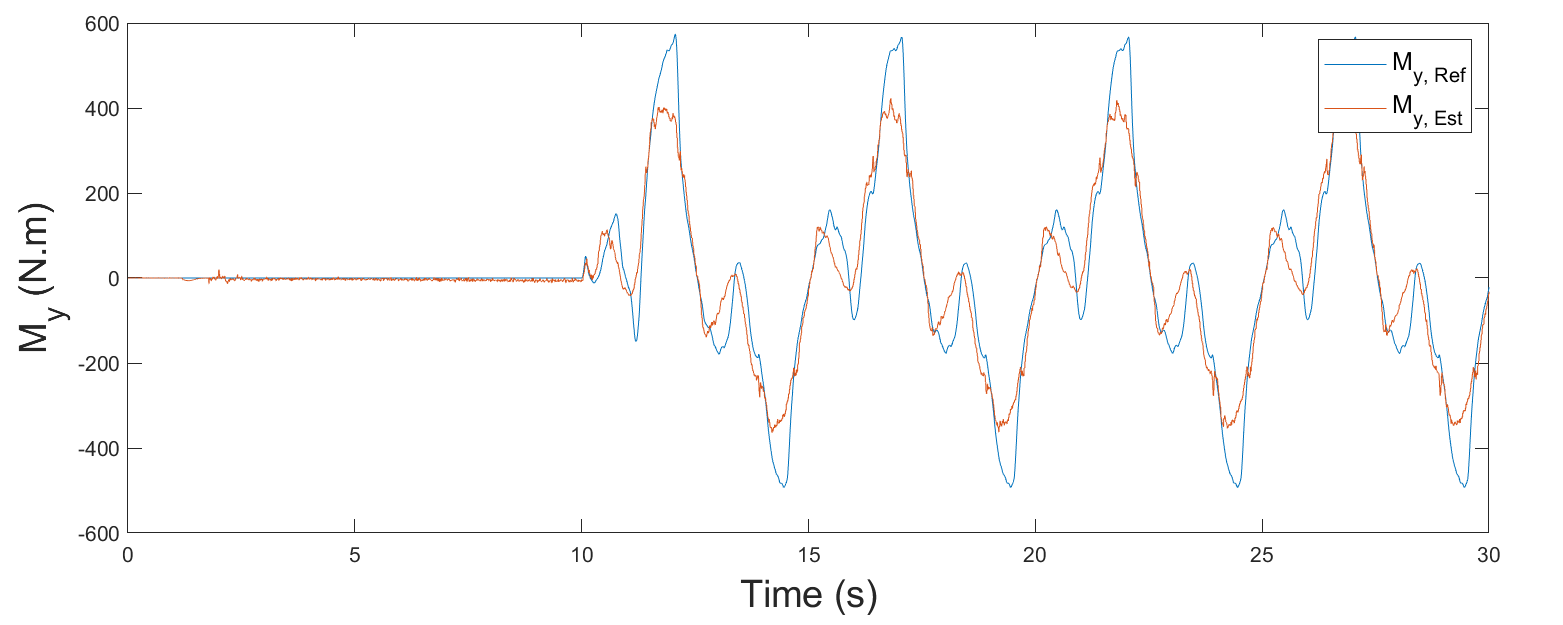
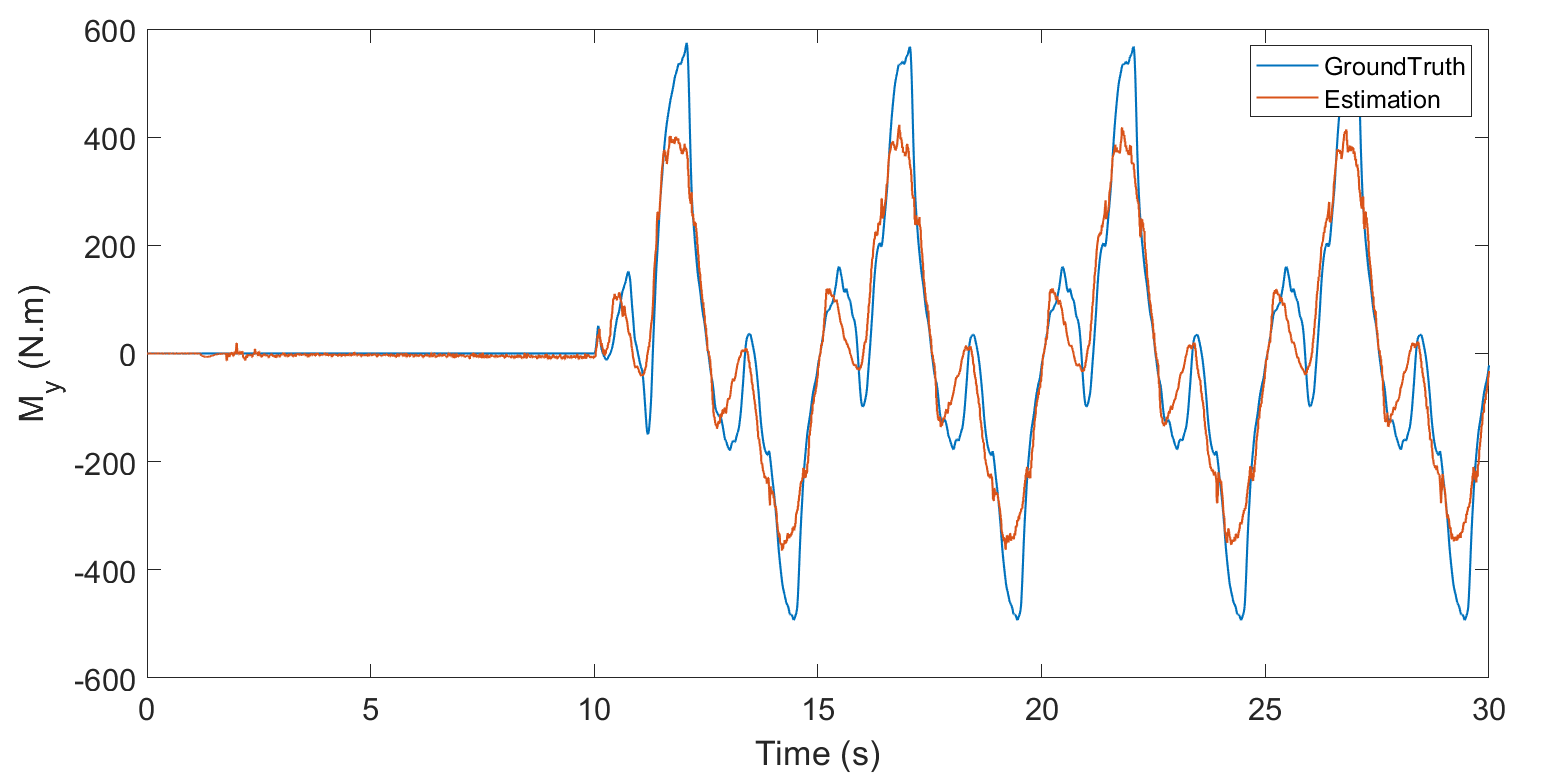
figure updated

diff --git a/Simulink/result_plot.m b/Simulink/result_plot.m
@@ -30,7 +30,7 @@ rmse_sinus_rl = sqrt(mean((Fyrl_sinus_est - Fyrl_sinus_true_interp).^2));
 rmse_sinus_rr = sqrt(mean((Fyrr_sinus_est - Fyrr_sinus_true_interp).^2));
 rmse_sinus_my = sqrt(mean((My_sinus_est - My_sinus_true_interp).^2));
 
-fontSize = 18;
+fontSize = 20;
 legendFontSize = 12;
 time_limit = 30;
 sinus_indices = Fy_sinus_time <= time_limit;
@@ -41,55 +41,60 @@ fprintf('Fyfl error: %.2f, Fyfr error: %.2f, Fyrl error: %.2f, Fyrr error: %.2f,
 
 % Plotting with small margins between subplots
 figure(1);
-set(gcf, 'Position', [100, 100, 1000, 800]);
+set(gcf, 'Position', [100, 100, 1000, 1000]);
 tiledlayout(2, 1, 'Padding', 'compact', 'TileSpacing', 'compact');
 
-nexttile;
-plot(Fy_sinus_time(sinus_indices), Fyfl_sinus_true_interp(sinus_indices)); hold on;
-plot(Fy_sinus_time(sinus_indices), Fyfl_sinus_est(sinus_indices)); hold off;
+ax1 = nexttile;
+plot(Fy_sinus_time(sinus_indices), Fyfl_sinus_true_interp(sinus_indices), 'LineWidth', 1); hold on; 
+plot(Fy_sinus_time(sinus_indices), Fyfl_sinus_est(sinus_indices), 'LineWidth', 1); hold off;
 xlabel('Time (s)', 'FontSize', fontSize);
-ylabel('Fy_{fl} (N)', 'FontSize', fontSize);
-legend('Fy_{fl, Ref}', 'Fy_{fl, Est}', 'FontSize', legendFontSize);
+ylabel('F_{y, FL} (N)', 'FontSize', fontSize);
+legend('GroundTruth', 'Estimation', 'FontSize', legendFontSize);
+set(ax1, 'FontSize', 15);  % Set font size for all text in the axes, including x-ticks
 
-nexttile;
-plot(Fy_sinus_time(sinus_indices), Fyfr_sinus_true_interp(sinus_indices)); hold on;
-plot(Fy_sinus_time(sinus_indices), Fyfr_sinus_est(sinus_indices)); hold off;
+ax2 = nexttile;
+plot(Fy_sinus_time(sinus_indices), Fyfr_sinus_true_interp(sinus_indices), 'LineWidth', 1); hold on;
+plot(Fy_sinus_time(sinus_indices), Fyfr_sinus_est(sinus_indices), 'LineWidth', 1); hold off;
 xlabel('Time (s)', 'FontSize', fontSize);
-ylabel('Fy_{fr} (N)', 'FontSize', fontSize);
-legend('Fy_{fr, Ref}', 'Fy_{fr, Est}', 'FontSize', legendFontSize);
+ylabel('F_{y,FR} (N)', 'FontSize', fontSize);
+legend('GroundTruth', 'Estimation', 'FontSize', legendFontSize);
+set(ax2, 'FontSize', 15);  % Set font size for all text in the axes, including x-ticks
 
 saveas(figure(1), 'C:\Users\SMEET_SIMUL\Desktop\Torque-Vectoring\Paper\Figures\frontForce_sinus.png');
 
 figure(2);
-set(gcf, 'Position', [100, 100, 1000, 800]);
+set(gcf, 'Position', [100, 100, 1000, 1000]);
 tiledlayout(2, 1, 'Padding', 'compact', 'TileSpacing', 'compact');
 
-nexttile;
-plot(Fy_sinus_time(sinus_indices), Fyrl_sinus_true_interp(sinus_indices)); hold on;
-plot(Fy_sinus_time(sinus_indices), Fyrl_sinus_est(sinus_indices)); hold off;
+ax3 = nexttile;
+plot(Fy_sinus_time(sinus_indices), Fyrl_sinus_true_interp(sinus_indices), 'LineWidth', 1); hold on;
+plot(Fy_sinus_time(sinus_indices), Fyrl_sinus_est(sinus_indices), 'LineWidth', 1); hold off;
 xlabel('Time (s)', 'FontSize', fontSize);
-ylabel('Fy_{rl} (N)', 'FontSize', fontSize);
-legend('Fy_{rl, Ref}', 'Fy_{rl, Est}', 'FontSize', legendFontSize);
+ylabel('F_{y,RL} (N)', 'FontSize', fontSize);
+legend('GroundTruth', 'Estimation', 'FontSize', legendFontSize);
+set(ax3, 'FontSize', 15);  % Set font size for all text in the axes, including x-ticks
 
-nexttile;
-plot(Fy_sinus_time(sinus_indices), Fyrr_sinus_true_interp(sinus_indices)); hold on;
-plot(Fy_sinus_time(sinus_indices), Fyrr_sinus_est(sinus_indices)); hold off;
+ax4 = nexttile;
+plot(Fy_sinus_time(sinus_indices), Fyrr_sinus_true_interp(sinus_indices), 'LineWidth', 1); hold on;
+plot(Fy_sinus_time(sinus_indices), Fyrr_sinus_est(sinus_indices), 'LineWidth', 1); hold off;
 xlabel('Time (s)', 'FontSize', fontSize);
-ylabel('Fy_{rr} (N)', 'FontSize', fontSize);
-legend( 'Fy_{rr, Ref}', 'Fy_{rr, Est}', 'FontSize', legendFontSize);
+ylabel('F_{y, RR} (N)', 'FontSize', fontSize);
+legend('GroundTruth', 'Estimation', 'FontSize', legendFontSize);
+set(ax4, 'FontSize', 15);  % Set font size for all text in the axes, including x-ticks
 
 saveas(figure(2), 'C:\Users\SMEET_SIMUL\Desktop\Torque-Vectoring\Paper\Figures\rearForce_sinus.png');
 
 figure(3);
-set(gcf, 'Position', [100, 100, 1000, 400]);
+set(gcf, 'Position', [100, 100, 1000, 500]);
 tiledlayout(1, 1, 'Padding', 'compact', 'TileSpacing', 'compact'); 
 
-nexttile;
-plot(My_sinus_est_time(My_sinus_indices), My_sinus_true_interp(My_sinus_indices)); hold on;
-plot(My_sinus_est_time(My_sinus_indices), My_sinus_est(My_sinus_indices)); hold off;
+ax5 = nexttile;
+plot(My_sinus_est_time(My_sinus_indices), My_sinus_true_interp(My_sinus_indices), 'LineWidth', 1); hold on;
+plot(My_sinus_est_time(My_sinus_indices), My_sinus_est(My_sinus_indices), 'LineWidth', 1); hold off;
 xlabel('Time (s)','FontSize', fontSize);
 ylabel('M_{y} (N.m)', 'FontSize', fontSize);
-legend('M_{y, Ref}', 'M_{y, Est}', 'FontSize', legendFontSize);
+legend('GroundTruth', 'Estimation', 'FontSize', legendFontSize);
+set(ax5, 'FontSize', 15);  % Set font size for all text in the axes, including x-ticks
 
 saveas(figure(3), 'C:\Users\SMEET_SIMUL\Desktop\Torque-Vectoring\Paper\Figures\My_sinus.png');
 
@@ -135,55 +140,60 @@ My_steady_indices = My_steady_est_time <= time_limit;
 
 % Plotting with small margins between subplots
 figure(4);
-set(gcf, 'Position', [100, 100, 1000, 800]);
+set(gcf, 'Position', [100, 100, 1000, 1000]);
 tiledlayout(2, 1, 'Padding', 'compact', 'TileSpacing', 'compact');
 
-nexttile;
-plot(Fy_steady_time(steady_indices), Fyfl_steady_true_interp(steady_indices)); hold on;
-plot(Fy_steady_time(steady_indices), Fyfl_steady_est(steady_indices)); hold off;
+ax6 = nexttile;
+plot(Fy_steady_time(steady_indices), Fyfl_steady_true_interp(steady_indices), 'LineWidth', 1); hold on;
+plot(Fy_steady_time(steady_indices), Fyfl_steady_est(steady_indices), 'LineWidth', 1); hold off;
 xlabel('Time (s)', 'FontSize', fontSize);
-ylabel('Fy_{fl} (N)', 'FontSize', fontSize);
-legend('Fy_{fl, Ref}', 'Fy_{fl, Est}', 'FontSize', legendFontSize);
+ylabel('F_{y, FL} (N)', 'FontSize', fontSize);
+legend('GroundTruth', 'Estimation', 'FontSize', legendFontSize);
+set(ax6, 'FontSize', 15);  % Set font size for all text in the axes, including x-ticks
 
-nexttile;
-plot(Fy_steady_time(steady_indices), Fyfr_steady_true_interp(steady_indices)); hold on;
-plot(Fy_steady_time(steady_indices), Fyfr_steady_est(steady_indices)); hold off;
+ax7 = nexttile;
+plot(Fy_steady_time(steady_indices), Fyfr_steady_true_interp(steady_indices), 'LineWidth', 1); hold on;
+plot(Fy_steady_time(steady_indices), Fyfr_steady_est(steady_indices), 'LineWidth', 1); hold off;
 xlabel('Time (s)', 'FontSize', fontSize);
-ylabel('Fy_{fr} (N)', 'FontSize', fontSize);
-legend('Fy_{fr, Ref}', 'Fy_{fr, Est}', 'FontSize', legendFontSize);
+ylabel('F_{y, FR} (N)', 'FontSize', fontSize);
+legend('GroundTruth', 'Estimation', 'FontSize', legendFontSize);
+set(ax7, 'FontSize', 15);  % Set font size for all text in the axes, including x-ticks
 
 saveas(figure(4), 'C:\Users\SMEET_SIMUL\Desktop\Torque-Vectoring\Paper\Figures\frontForce_steady.png');
 
 figure(5);
-set(gcf, 'Position', [100, 100, 1000, 800]);
+set(gcf, 'Position', [100, 100, 1000, 1000]);
 tiledlayout(2, 1, 'Padding', 'compact', 'TileSpacing', 'compact');
 
-nexttile;
-plot(Fy_steady_time(steady_indices), Fyrl_steady_true_interp(steady_indices)); hold on;
-plot(Fy_steady_time(steady_indices), Fyrl_steady_est(steady_indices)); hold off;
+ax8 = nexttile;
+plot(Fy_steady_time(steady_indices), Fyrl_steady_true_interp(steady_indices), 'LineWidth', 1); hold on;
+plot(Fy_steady_time(steady_indices), Fyrl_steady_est(steady_indices), 'LineWidth', 1); hold off;
 xlabel('Time (s)', 'FontSize', fontSize);
-ylabel('Fy_{rl} (N)', 'FontSize', fontSize);
-legend('Fy_{rl, Ref}', 'Fy_{rl, Est}', 'FontSize', legendFontSize);
+ylabel('F_{y, RL} (N)', 'FontSize', fontSize);
+legend('GroundTruth', 'Estimation', 'FontSize', legendFontSize);
+set(ax8, 'FontSize', 15);  % Set font size for all text in the axes, including x-ticks
 
-nexttile;
-plot(Fy_steady_time(steady_indices), Fyrr_steady_true_interp(steady_indices)); hold on;
-plot(Fy_steady_time(steady_indices), Fyrr_steady_est(steady_indices)); hold off;
+ax9 = nexttile;
+plot(Fy_steady_time(steady_indices), Fyrr_steady_true_interp(steady_indices), 'LineWidth', 1); hold on;
+plot(Fy_steady_time(steady_indices), Fyrr_steady_est(steady_indices), 'LineWidth', 1); hold off;
 xlabel('Time (s)', 'FontSize', fontSize);
-ylabel('Fy_{rr} (N)', 'FontSize', fontSize);
-legend('Fy_{rr, Ref}', 'Fy_{rr, Est}', 'FontSize', legendFontSize);
+ylabel('F_{y, RR} (N)', 'FontSize', fontSize);
+legend('GroundTruth', 'Estimation', 'FontSize', legendFontSize);
+set(ax9, 'FontSize', 15);  % Set font size for all text in the axes, including x-ticks
 
 saveas(figure(5), 'C:\Users\SMEET_SIMUL\Desktop\Torque-Vectoring\Paper\Figures\rearForce_steady.png');
 
 figure(6);
-set(gcf, 'Position', [100, 100, 1000, 400]);
+set(gcf, 'Position', [100, 100, 1000, 500]);
 tiledlayout(1, 1, 'Padding', 'compact', 'TileSpacing', 'compact'); 
 
-nexttile;
-plot(My_steady_est_time(My_steady_indices), My_steady_true_interp(My_steady_indices)); hold on;
-plot(My_steady_est_time(My_steady_indices), My_steady_est(My_steady_indices)); hold off;
+ax10 = nexttile;
+plot(My_steady_est_time(My_steady_indices), My_steady_true_interp(My_steady_indices), 'LineWidth', 1); hold on;
+plot(My_steady_est_time(My_steady_indices), My_steady_est(My_steady_indices), 'LineWidth', 1); hold off;
 xlabel('Time (s)', 'FontSize', fontSize);
 ylabel('M_{y} (N.m)', 'FontSize', fontSize);
-legend('M_{y, Ref}', 'M_{y, Est}', 'FontSize', legendFontSize);
+legend('GroundTruth', 'Estimation', 'FontSize', legendFontSize);
+set(ax10, 'FontSize', 15);  % Set font size for all text in the axes, including x-ticks
 ylim([-400, 400]);
 saveas(figure(6), 'C:\Users\SMEET_SIMUL\Desktop\Torque-Vectoring\Paper\Figures\My_steady.png');
 
@@ -229,54 +239,59 @@ fprintf('Fyfl error: %.2f, Fyfr error: %.2f, Fyrl error: %.2f, Fyrr error: %.2f,
 
 % Plotting with small margins between subplots
 figure(7);
-set(gcf, 'Position', [100, 100, 1000, 800]);
+set(gcf, 'Position', [100, 100, 1000, 1000]);
 tiledlayout(2, 1, 'Padding', 'compact', 'TileSpacing', 'compact');
 
-nexttile;
-plot(Fy_race_time(race_indices), Fyfl_race_true_interp(race_indices)); hold on;
-plot(Fy_race_time(race_indices), Fyfl_race_est(race_indices)); hold off;
+ax11 = nexttile;
+plot(Fy_race_time(race_indices), Fyfl_race_true_interp(race_indices), 'LineWidth', 1); hold on;
+plot(Fy_race_time(race_indices), Fyfl_race_est(race_indices), 'LineWidth', 1); hold off;
 xlabel('Time (s)', 'FontSize', fontSize);
-ylabel('Fy_{fl} (N)', 'FontSize', fontSize);
-legend('Fy_{fl, Ref}', 'Fy_{fl, Est}', 'FontSize', legendFontSize);
+ylabel('F_{y, FL} (N)', 'FontSize', fontSize);
+legend('GroundTruth', 'Estimation', 'FontSize', legendFontSize);
+set(ax11, 'FontSize', 15);  % Set font size for all text in the axes, including x-ticks
 
-nexttile;
-plot(Fy_race_time(race_indices), Fyfr_race_true_interp(race_indices)); hold on;
-plot(Fy_race_time(race_indices), Fyfr_race_est(race_indices)); hold off;
+ax12 = nexttile;
+plot(Fy_race_time(race_indices), Fyfr_race_true_interp(race_indices), 'LineWidth', 1); hold on;
+plot(Fy_race_time(race_indices), Fyfr_race_est(race_indices), 'LineWidth', 1); hold off;
 xlabel('Time (s)', 'FontSize', fontSize);
-ylabel('Fy_{fr} (N)', 'FontSize', fontSize);
-legend('Fy_{fr, Ref}', 'Fy_{fr, Est}', 'FontSize', legendFontSize);
+ylabel('F_{y, FR} (N)', 'FontSize', fontSize);
+legend('GroundTruth', 'Estimation', 'FontSize', legendFontSize);
+set(ax12, 'FontSize', 15);  % Set font size for all text in the axes, including x-ticks
 
 saveas(figure(7), 'C:\Users\SMEET_SIMUL\Desktop\Torque-Vectoring\Paper\Figures\frontForce_race.png');
 
 figure(8);
-set(gcf, 'Position', [100, 100, 1000, 800]);
+set(gcf, 'Position', [100, 100, 1000, 1000]);
 tiledlayout(2, 1, 'Padding', 'compact', 'TileSpacing', 'compact');
 
-nexttile;
-plot(Fy_race_time(race_indices), Fyrl_race_true_interp(race_indices)); hold on;
-plot(Fy_race_time(race_indices), Fyrl_race_est(race_indices)); hold off;
+ax13 = nexttile;
+plot(Fy_race_time(race_indices), Fyrl_race_true_interp(race_indices),'LineWidth', 1); hold on;
+plot(Fy_race_time(race_indices), Fyrl_race_est(race_indices), 'LineWidth', 1); hold off;
 xlabel('Time (s)', 'FontSize', fontSize);
-ylabel('Fy_{rl} (N)', 'FontSize', fontSize);
-legend('Fy_{rl, Ref}', 'Fy_{rl, Est}', 'FontSize', legendFontSize);
+ylabel('F_{y, RL} (N)', 'FontSize', fontSize);
+legend('GroundTruth', 'Estimation', 'FontSize', legendFontSize);
+set(ax13, 'FontSize', 15);  % Set font size for all text in the axes, including x-ticks
 
-nexttile;
-plot(Fy_race_time(race_indices), Fyrr_race_true_interp(race_indices)); hold on;
-plot(Fy_race_time(race_indices), Fyrr_race_est(race_indices)); hold off;
+ax14 = nexttile;
+plot(Fy_race_time(race_indices), Fyrr_race_true_interp(race_indices), 'LineWidth', 1); hold on;
+plot(Fy_race_time(race_indices), Fyrr_race_est(race_indices), 'LineWidth', 1); hold off;
 xlabel('Time (s)', 'FontSize', fontSize);
-ylabel('Fy_{rr} (N)', 'FontSize', fontSize);
-legend('Fy_{rr, Ref}', 'Fy_{rr, Est}', 'FontSize', legendFontSize);
+ylabel('F_{y, RR} (N)', 'FontSize', fontSize);
+legend('GroundTruth', 'Estimation', 'FontSize', legendFontSize);
+set(ax14, 'FontSize', 15);  % Set font size for all text in the axes, including x-ticks
 
 saveas(figure(8), 'C:\Users\SMEET_SIMUL\Desktop\Torque-Vectoring\Paper\Figures\rearForce_race.png');
 
 figure(9);
-set(gcf, 'Position', [100, 100, 1000, 400]);
+set(gcf, 'Position', [100, 100, 1000, 500]);
 tiledlayout(1, 1, 'Padding', 'compact', 'TileSpacing', 'compact'); 
 
-nexttile;
-plot(My_race_est_time(My_race_indices), My_race_true_interp(My_race_indices)); hold on;
-plot(My_race_est_time(My_race_indices), My_race_est(My_race_indices)); hold off;
+ax15 = nexttile;
+plot(My_race_est_time(My_race_indices), My_race_true_interp(My_race_indices), 'LineWidth', 1); hold on;
+plot(My_race_est_time(My_race_indices), My_race_est(My_race_indices), 'LineWidth', 1); hold off;
 xlabel('Time (s)', 'FontSize', fontSize);
 ylabel('M_{y} (N.m)', 'FontSize', fontSize);
-legend('M_{y, Ref}', 'M_{y, Est}', 'FontSize', legendFontSize);
+legend('GroundTruth', 'Estimation', 'FontSize', legendFontSize);
+set(ax15, 'FontSize', 15);  % Set font size for all text in the axes, including x-ticks
 
 saveas(figure(9), 'C:\Users\SMEET_SIMUL\Desktop\Torque-Vectoring\Paper\Figures\My_race.png');
